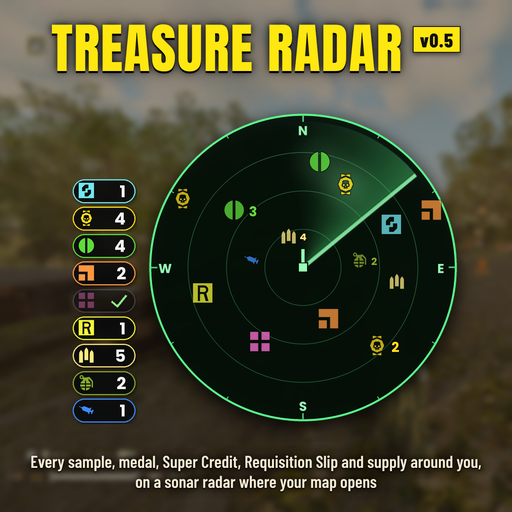
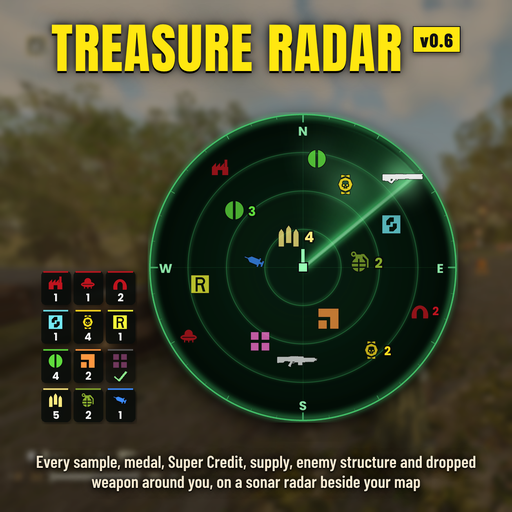
0.6.0: art (tile ledger, structures, weapons, v0.6 badge)

diff --git a/src/artwork/hero.py b/src/artwork/hero.py
@@ -1,26 +1,34 @@
-"""Treasure Radar release art: the hero scene (the sonar radar with its sweep, the pickups lighting up and the pill
-ledger, over a blurred shot of the game). hero(W, H, cx, cy, r) -> RGBA image; the text is added by cards.py."""
+"""Treasure Radar release art: the hero scene (the sonar radar with its sweep, the pickups, enemy structures and
+weapons lighting up, and the ledger's tiles, over a blurred shot of the game). hero(W, H, cx, cy, r) -> RGBA image; the
+text is added by cards.py. The weapon silhouettes come from weapon_icons/ (the game's own marker icons, see
+weapon_textures.py); a missing one falls back to my generic shape."""
 import math, os, sys
 from PIL import Image, ImageDraw, ImageFilter, ImageEnhance, ImageFont
 
 HERE = os.path.dirname(os.path.abspath(__file__))
 sys.path.insert(0, os.path.dirname(HERE))
-import icon_textures, radar_textures
+import icon_textures, radar_textures, weapon_textures
 
 FONT = os.path.join(os.path.dirname(HERE), 'fonts', 'Poppins-Bold.ttf')   # SIL Open Font License
 RGB = {'credit': (115, 233, 242), 'medal': (255, 221, 31), 'common': (95, 220, 60), 'rare': (255, 151, 64),
        'super': (255, 114, 211), 'requisition': (244, 247, 56), 'ammo': (255, 234, 128), 'grenade': (135, 170, 45),
-       'stim': (60, 140, 255)}
+       'stim': (60, 140, 255), 'fabricator': (190, 20, 30), 'bulkfab': (190, 20, 30), 'ilship': (190, 20, 30),
+       'bughole': (190, 20, 30)}
+SUPPLY = ('ammo', 'grenade', 'stim')
+STRUCT = ('fabricator', 'bulkfab', 'ilship', 'bughole')
 LIGHT = (150, 255, 180)
 SWEEP_AT = 52                       # degrees clockwise from north where the sweep's line is in the pictures
 
-# pickups on the radar: (east, north) as a fraction of the radius, kind, pile count
+# on the radar: (east, north) as a fraction of the radius, kind (or 'w:<weapon unit id>'), pile count
 PICKUPS = [(0.30, 0.58, 'medal', 1), (0.62, 0.30, 'credit', 1), (-0.48, 0.40, 'common', 3), (0.18, -0.36, 'rare', 1),
-           (-0.30, -0.52, 'super', 1), (-0.70, -0.18, 'requisition', 1), (0.52, -0.55, 'medal', 2), (-0.10, 0.22, 'ammo', 4),
-           (0.40, 0.05, 'grenade', 2), (-0.36, 0.05, 'stim', 1), (0.12, 0.74, 'common', 1), (0.66, -0.10, 'ammo', 1),
-           (0.90, 0.40, 'rare', 1), (-0.84, 0.48, 'medal', 1)]
-LEDGER = [('credit', 1), ('medal', 4), ('common', 4), ('rare', 2), ('super', 0), ('requisition', 1), ('ammo', 5),
-          ('grenade', 2), ('stim', 1)]
+           (-0.30, -0.52, 'super', 1), (-0.72, -0.12, 'requisition', 1), (0.48, -0.58, 'medal', 2), (-0.10, 0.22, 'ammo', 4),
+           (0.40, 0.04, 'grenade', 2), (-0.34, 0.04, 'stim', 1), (0.10, 0.76, 'common', 1),
+           (-0.58, 0.70, 'fabricator', 1), (0.82, -0.30, 'bughole', 2), (-0.80, -0.48, 'ilship', 1),
+           (0.70, 0.62, 'w:2e9d0bdc48b09e60', 1), (-0.04, -0.66, 'w:a6a735accb4a327f', 1)]
+# the ledger's tile rows, top to bottom (as in game): structures, then credits, medals and slips, samples, supplies
+LEDGER_ROWS = [[('fabricator', 1), ('ilship', 1), ('bughole', 2)], [('credit', 1), ('medal', 4), ('requisition', 1)],
+               [('common', 4), ('rare', 2), ('super', 0)], [('ammo', 5), ('grenade', 2), ('stim', 1)]]
+WEAPON_ICONS = os.path.join(os.path.dirname(HERE), 'weapon_icons')
 
 
 def background(W, H):
@@ -41,10 +49,26 @@ def background(W, H):
 
 
 def icon(kid, size, alpha=1.0):
-    ic = icon_textures.icon_image(kid, RGB[kid]).convert('RGBA').resize((size, size), Image.LANCZOS)
+    ic = icon_textures.icon_master(kid, RGB[kid]).convert('RGBA').resize((size, size), Image.LANCZOS)
     if alpha < 1:
         ic.putalpha(ic.getchannel('A').point(lambda v: int(v * alpha)))
     return ic
+
+
+_weapons = {}
+
+
+def weapon(uid, h, alpha=1.0):
+    """a weapon's silhouette, h px tall (its texture is 128 x 48, white with the dark outline)"""
+    if uid not in _weapons:
+        path = os.path.join(WEAPON_ICONS, uid + '.png')
+        mask = weapon_textures.silhouette(path) if os.path.exists(path) else None
+        _weapons[uid] = weapon_textures.texture(mask if mask is not None else weapon_textures.generic(), master=True)
+    w = int(h * weapon_textures.W / weapon_textures.H)
+    im = _weapons[uid].resize((w, h), Image.LANCZOS)
+    if alpha < 1:
+        im.putalpha(im.getchannel('A').point(lambda v: int(v * alpha)))
+    return im
 
 
 def text(img, xy, s, size, rgb, anchor='lm'):
@@ -78,16 +102,24 @@ def radar(r):
     inner = r * 0.92
     h = max(14, int(r * 0.15))
     sweep = math.radians(SWEEP_AT)
-    for x, y, kid, cnt in sorted(PICKUPS, key=lambda p: p[2] in ('ammo', 'grenade', 'stim'), reverse=True):
+    # drawn as in game: supplies at the bottom, then structures, the loot, and the weapons on top
+    order = lambda p: 0 if p[2] in SUPPLY else (1 if p[2] in STRUCT else (3 if p[2][:2] == 'w:' else 2))
+    for x, y, kid, cnt in sorted(PICKUPS, key=order):
         px, py = c + x * inner, c - y * inner
         since = (sweep - math.atan2(x, y)) % (2 * math.pi)
         pulse = math.exp(-since / 0.5)
-        sz = int((h * 0.78 if kid in ('ammo', 'grenade', 'stim') else h) * (1 + 0.12 * pulse))
+        d0 = math.hypot(x, y)
+        # every kind about the same size: bigger near me, smaller toward the edge (1.3x down to 0.7x in game)
+        sz = int(h * (1.18 - 0.36 * d0) * (1 + 0.12 * pulse))
         if pulse > 0.08:
             g = int(sz * 1.2)
             halo = Image.new('RGBA', (4 * g, 4 * g), (0, 0, 0, 0))
             ImageDraw.Draw(halo).ellipse((g, g, 3 * g, 3 * g), fill=LIGHT + (int(140 * pulse),))
             out.alpha_composite(halo.filter(ImageFilter.GaussianBlur(g / 2.2)), (int(px - 2 * g), int(py - 2 * g)))
+        if kid[:2] == 'w:':
+            wim = weapon(kid[2:], int(sz * 0.75), 0.75 + 0.25 * pulse)
+            out.alpha_composite(wim, (int(px - wim.width / 2), int(py - wim.height / 2)))
+            continue
         out.alpha_composite(icon(kid, sz, 0.75 + 0.25 * pulse), (int(px - sz / 2), int(py - sz / 2)))
         if cnt > 1:
             text(out, (px + sz * 0.62, py + sz * 0.05), str(cnt), sz * 0.58, RGB[kid])
@@ -102,27 +134,35 @@ def radar(r):
 
 
 def ledger(scale):
-    """the ledger's pills as drawn in game, `scale` px per game cell"""
-    lh, gap, lw = 12 * scale, 2 * scale, 32 * scale
-    W, H = int(lw + 4), int(len(LEDGER) * (lh + gap) - gap + 4)
+    """the ledger's tiles as drawn in game, `scale` px per game cell: each kind a small square with a line in its color
+    along the top, its icon and how many are left; a cleared kind dims, with a gray line and a check mark"""
+    TW, TH, GAP, ROW, ISZ = 15 * scale, 17 * scale, 1.5 * scale, 3 * scale, 8.5 * scale
+    n = max(len(r) for r in LEDGER_ROWS)
+    W = int(n * TW + (n - 1) * GAP + 4)
+    H = int(len(LEDGER_ROWS) * TH + (len(LEDGER_ROWS) - 1) * ROW + 4)
     img = Image.new('RGBA', (W, H), (0, 0, 0, 0))
     d = ImageDraw.Draw(img)
-    f = ImageFont.truetype(FONT, int(8.6 * scale))
-    for i, (kid, left) in enumerate(LEDGER):
-        y0 = 2 + i * (lh + gap)
-        done = left == 0
-        d.rounded_rectangle((2, y0, 2 + lw, y0 + lh), radius=lh / 2, fill=(8, 10, 12, 120 if done else 205),
-                            outline=(80, 80, 80, 170) if done else RGB[kid] + (235,), width=max(2, int(scale * 0.75)))
-        ic = icon(kid, int(9.5 * scale), 0.4 if done else 1)
-        img.alpha_composite(ic, (int(2 + 2.5 * scale), int(y0 + (lh - 9.5 * scale) / 2)))
-        if done:
-            cs = 7.5 * scale
-            x1, y1 = 2 + lw - 4.5 * scale - cs, y0 + (lh - cs) / 2
-            d.line((x1, y1 + cs * 0.55, x1 + cs * 0.38, y1 + cs * 0.9, x1 + cs, y1 + cs * 0.15), fill=(140, 230, 140, 255),
-                   width=max(2, int(scale * 1.1)), joint='curve')
-        else:
-            t = str(left)
-            d.text((2 + lw - 5 * scale, y0 + lh / 2), t, font=f, fill=(245, 245, 245, 255), anchor='rm')
+    f = ImageFont.truetype(FONT, int(5.6 * scale))
+    line = max(2, int(scale * 0.9 + 0.5))
+    for ri, row in enumerate(LEDGER_ROWS):
+        y0 = 2 + ri * (TH + ROW)
+        x0 = W - 2 - len(row) * TW - (len(row) - 1) * GAP          # right-aligned beside the radar
+        for kid, left in row:
+            done = left == 0
+            d.rounded_rectangle((x0, y0, x0 + TW, y0 + TH), radius=2.2 * scale, fill=(8, 12, 10, 130 if done else 205))
+            d.rectangle((x0 + 1.2 * scale, y0, x0 + TW - 1.2 * scale, y0 + line - 1),
+                        fill=(90, 90, 90, 230) if done else RGB[kid] + (230,))
+            ic = icon(kid, int(ISZ), 0.4 if done else 1)
+            img.alpha_composite(ic, (int(x0 + (TW - ISZ) / 2), int(y0 + 1.9 * scale)))
+            cy = y0 + TH - 3.5 * scale
+            if done:
+                cs = 6 * scale
+                x1, y1 = x0 + (TW - cs) / 2, cy - cs * 0.5
+                d.line((x1, y1 + cs * 0.55, x1 + cs * 0.38, y1 + cs * 0.9, x1 + cs, y1 + cs * 0.15), fill=(140, 230, 140, 255),
+                       width=max(2, int(scale * 1.1)), joint='curve')
+            else:
+                d.text((x0 + TW / 2, cy), str(left), font=f, fill=(245, 245, 245, 255), anchor='mm')
+            x0 += TW + GAP
     return img
 
 

diff --git a/src/artwork/cards.py b/src/artwork/cards.py
@@ -2,7 +2,7 @@
 social preview (1280x640) and the AyakaMods cover (1600x1000, everything inside the middle that the site's mod cards
 show). The scene comes from hero.py; the title, version badge and text are HTML rendered with Playwright Chromium
 (Anton + Barlow Condensed in fonts/, SIL Open Font License, from @fontsource).
-python cards.py <out dir> [version badge, e.g. 0.5]"""
+python cards.py <out dir> [version badge, e.g. 0.6]"""
 import base64, io, os, sys
 from playwright.sync_api import sync_playwright
 import hero
@@ -12,8 +12,8 @@ FONTS = {'Anton': 'fonts/anton-latin-400-normal.woff2',
          'Barlow Condensed': 'fonts/barlow-condensed-latin-600-normal.woff2',
          'Barlow Condensed B': 'fonts/barlow-condensed-latin-800-normal.woff2'}
 
-TAGLINE = 'Every sample, medal, Super Credit, Requisition Slip and supply around you, on a sonar radar where your map opens'
-FEATURES = ['SONAR SWEEP', 'LOOT LEDGER', 'WORLD MARKERS', 'ZOOM & ROTATE', 'FITS YOUR HUD']
+TAGLINE = 'Every sample, medal, Super Credit, supply, enemy structure and dropped weapon around you, on a sonar radar beside your map'
+FEATURES = ['SONAR SWEEP', 'LOOT LEDGER', 'ENEMY STRUCTURES', 'DROPPED WEAPONS', 'WORLD MARKERS', 'F9 SETTINGS']
 
 
 def b64(path_or_img):
@@ -60,7 +60,7 @@ def feats(size):
 
 def main():
     out = sys.argv[1]
-    ver = sys.argv[2] if len(sys.argv) > 2 else '0.5'
+    ver = sys.argv[2] if len(sys.argv) > 2 else '0.6'
     os.makedirs(out, exist_ok=True)
     jobs = []
     # square thumbnail: the title at the top, the radar and ledger in the middle, the tagline at the bottom
@@ -96,7 +96,7 @@ def main():
       </div>""" % {'v': ver, 't': TAGLINE, 'f': feats(20)}))
     # AyakaMods cover 1.6:1: everything inside the middle 1190x800 (the mod cards crop it to 1.2:1 .. 2:1)
     W, H = 1600, 1000
-    bg = hero.hero(W, H, 1120, 500, 285)
+    bg = hero.hero(W, H, 1200, 500, 270)
     jobs.append(('AyakaMods-Cover-1600x1000.png', W, H, bg, """
       <div class="plate" style="left:226px;top:168px;width:440px;padding:32px 32px 34px">
         <div class="title" style="font-size:90px">Treasure<br>Radar</div>
